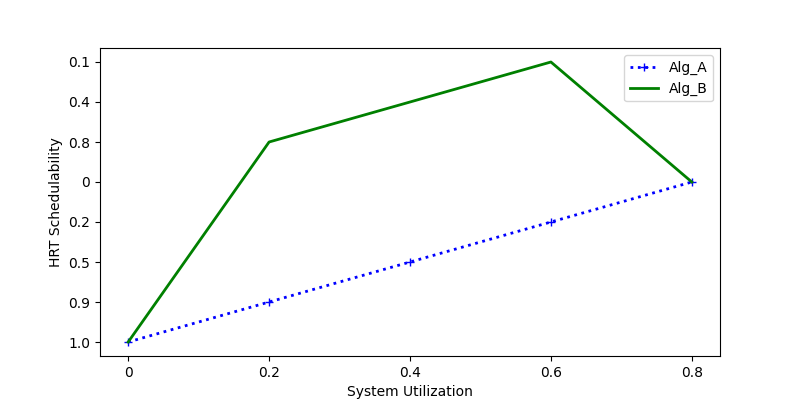
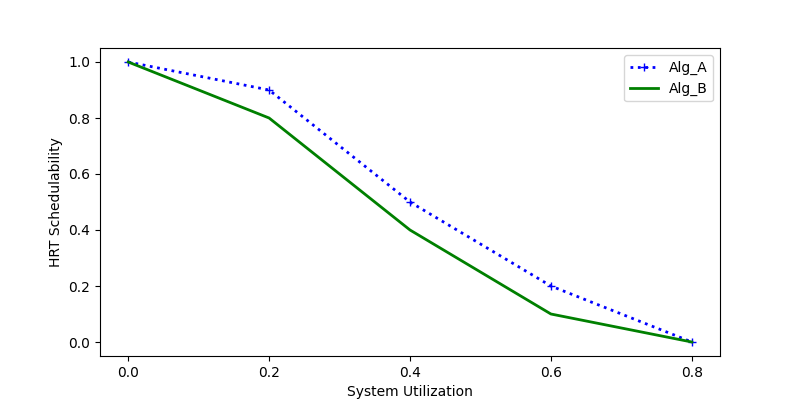
fix make_plots

diff --git a/make_plot.py b/make_plot.py
@@ -33,7 +33,7 @@ def main():
     data = defaultdict(list)
     for row in d:
         for key, value in row.items():
-            data[key].append(value)
+            data[key].append(float(value))
 
     cols = copy(d.fieldnames)
     cols.remove("sys_util")
@@ -47,6 +47,8 @@ def main():
     
     plt.ylabel("HRT Schedulability")
     plt.xlabel("System Utilization")
+    plt.xticks(np.round(data["sys_util"], decimals=1))
+    plt.xticks(np.arange(min(data["sys_util"]), max(data["sys_util"])+0.1, 0.2))
 
     plt.savefig(file[:-4]+".pdf")
     plt.savefig(file[:-4]+".png")
